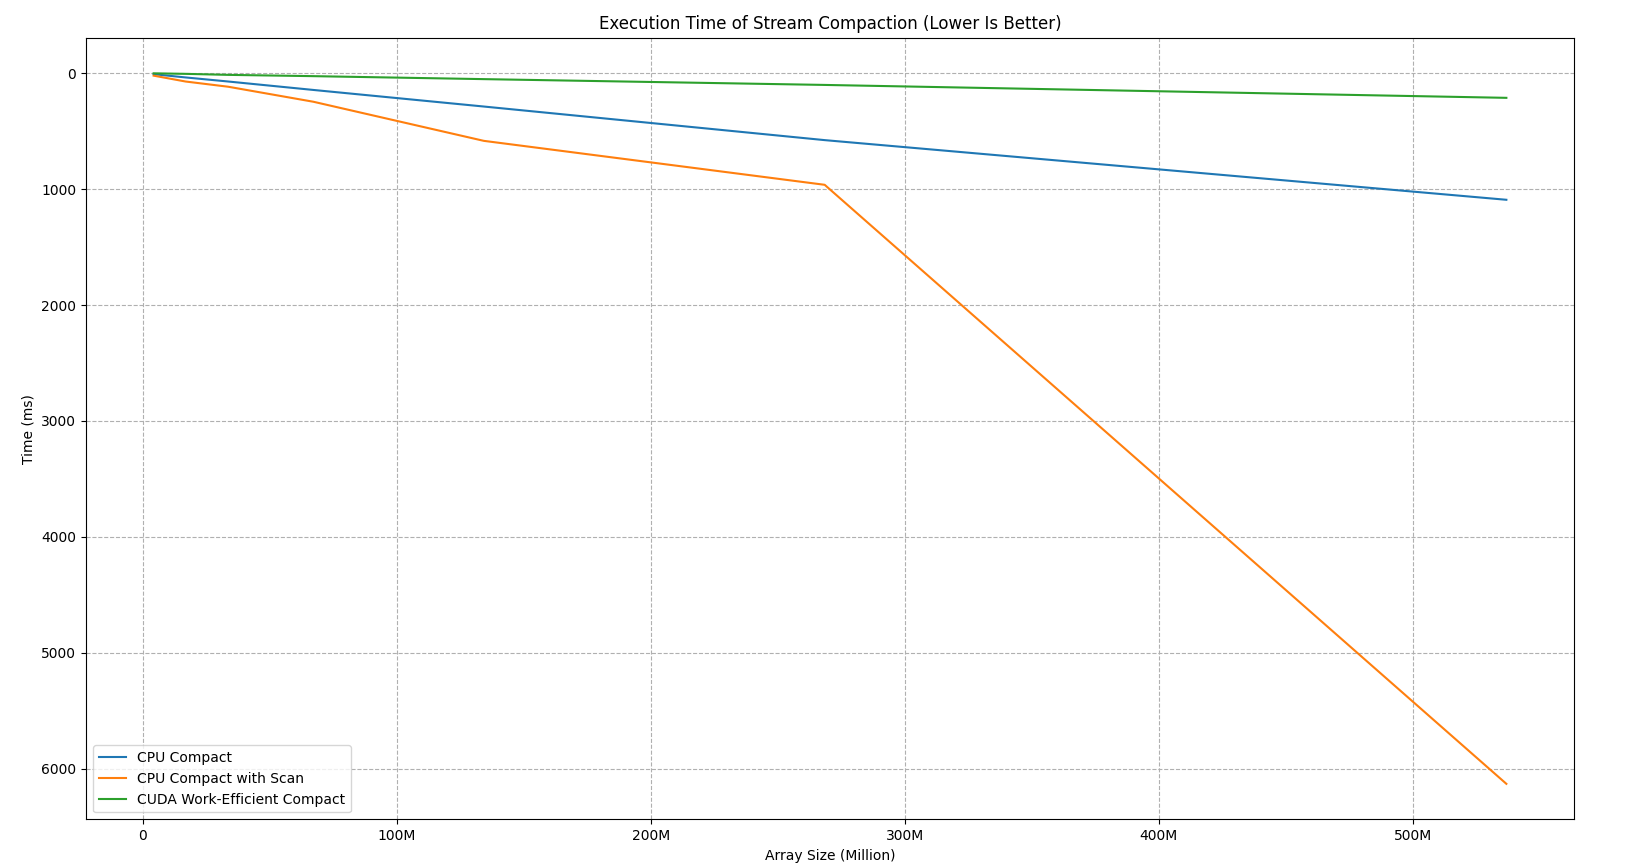
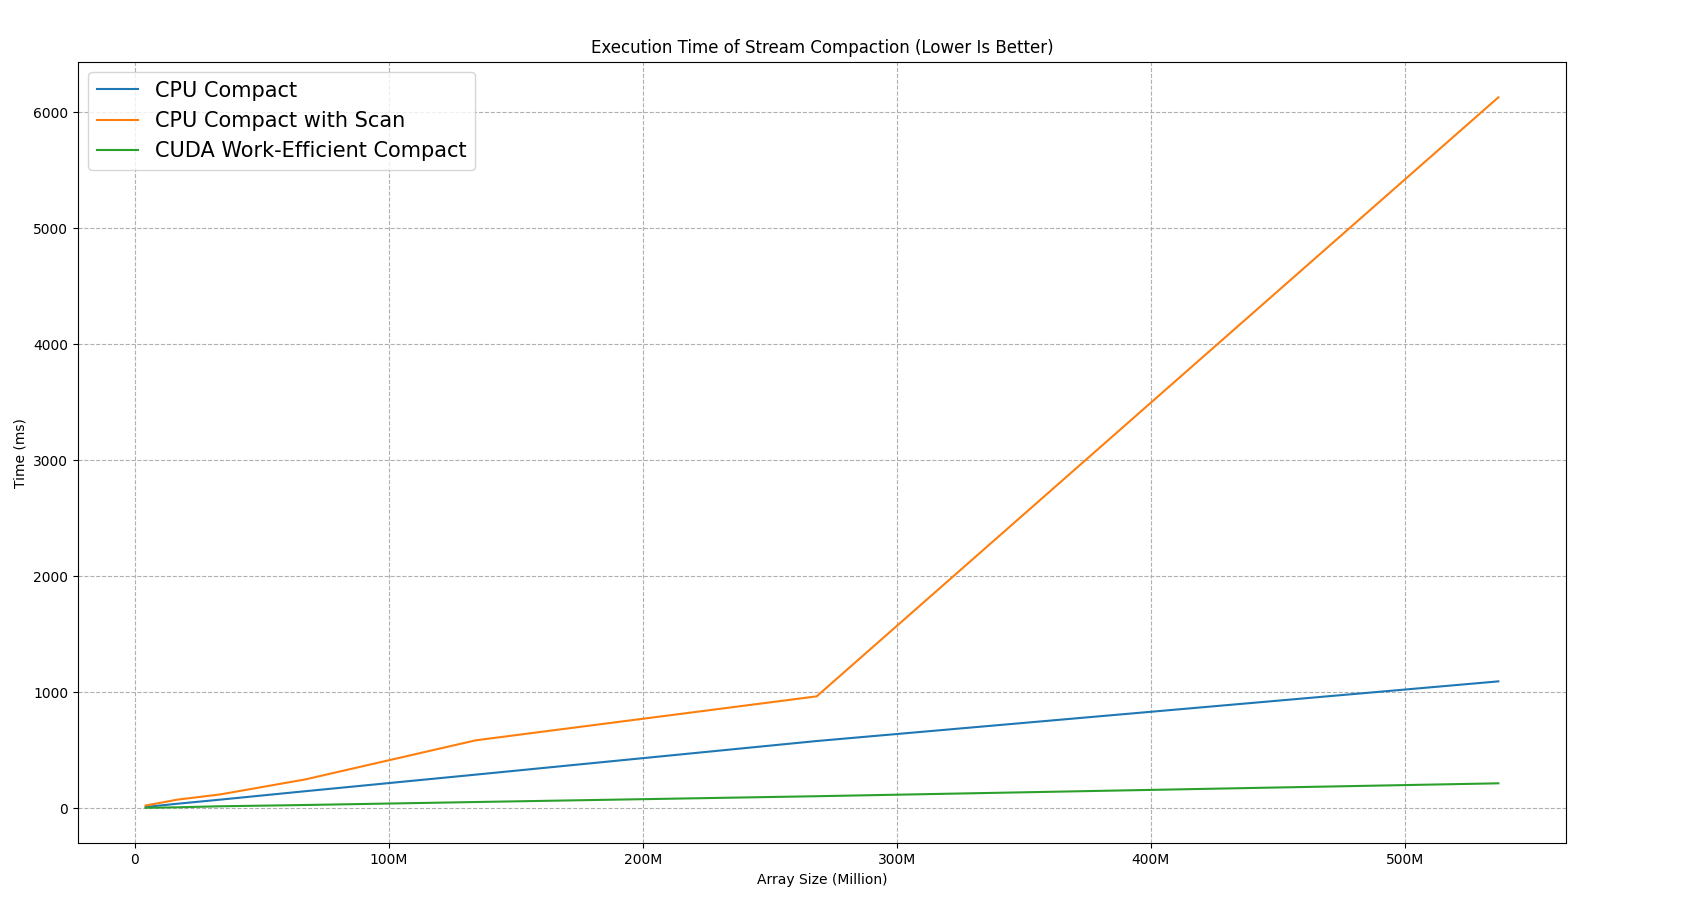
update README

diff --git a/img/generate_image.py b/img/generate_image.py
@@ -36,11 +36,9 @@ if __name__ == "__main__":
     plt.plot(x, eff, label="CUDA Work-Efficient Scan")
     plt.plot(x, thrust, label="CUDA Thrust Scan")
 
-    plt.gca().invert_yaxis()
-
     plt.xticks([0, 100, 200, 300, 400, 500], ["0", "100M", "200M", "300M", "400M", "500M"])
 
-    plt.legend()
+    plt.legend(fontsize=15)
 
     plt.title("Execution Time of Scanning (Lower Is Better)")
     plt.ylabel('Time (ms)')
@@ -53,11 +51,9 @@ if __name__ == "__main__":
     plt.plot(x, compact_cpu_scan, label="CPU Compact with Scan")
     plt.plot(x, compact_eff, label="CUDA Work-Efficient Compact")
 
-    plt.gca().invert_yaxis()
-
     plt.xticks([0, 100, 200, 300, 400, 500], ["0", "100M", "200M", "300M", "400M", "500M"])
 
-    plt.legend()
+    plt.legend(fontsize=15)
 
     plt.title("Execution Time of Stream Compaction (Lower Is Better)")
     plt.ylabel('Time (ms)')

diff --git a/README.md b/README.md
@@ -96,7 +96,7 @@ Also, we can observe that CPU without scan is better than the version with scan.
 ## Sample Output
 
 ```
-Using SIZE: 16 M
+Using SIZE: 16 M 
 ****************
 ** SCAN TESTS **
 ****************
